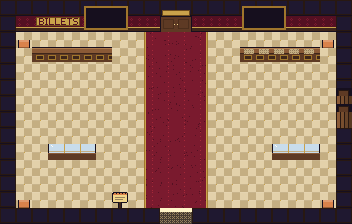
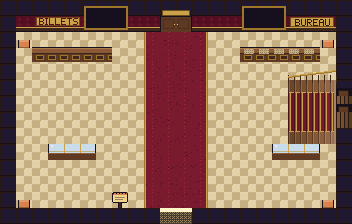
RIDEAU v0.17.3 : bandeau allégé, étapes numérotées, escalier du bureau
- bandeau « Prochaines étapes » réduit à un petit encadré (étape, une autre
  chose à faire, période et lieu) ; carte trésorerie/publics/rayonnement retirée
- étapes numérotées « Étape n/4 » et phrases plus courtes
- escalier d'honneur du hall au bureau (marches, tapis rouge, rampes, plaque)
- 182 tests verts

Claude-Session: https://claude.ai/code/session_014cbLPB3AwCSR3oojVBSsoS

Changed region(s): [[0.8125, 0.3125, 0.9688, 0.6562], [0.8125, 0.0625, 0.9688, 0.125]]

diff --git a/RIDEAU/tools/art/world.py b/RIDEAU/tools/art/world.py
@@ -405,6 +405,35 @@ def double_door(c, x0, y0, wood=P["wood2"], h=16):
 
 # --- Cartes intérieures ----------------------------------------------------------
 
+def draw_grand_stairs(base, top, x0, y0, w, h):
+    """Escalier d'honneur qui monte vers la droite (bureau de la direction) : marches de
+    chêne de plus en plus claires, tapis rouge et tringles dorées, rampes en laiton."""
+    steps = w // 6
+    for i in range(steps):
+        sx = x0 + i * 6
+        wood = shade(P["wood3"], 0.78 + i * 0.05)
+        base.rect(sx, y0, 6, h, wood)
+        base.vline(sx, y0, y0 + h - 1, shade(wood, 0.7))          # contremarche
+        base.vline(sx + 1, y0, y0 + h - 1, shade(wood, 1.15))     # nez de marche
+        base.rect(sx, y0 + 12, 6, h - 24, shade(P["velvet2"], 0.85 + i * 0.03))  # tapis rouge
+        base.hline(sx, sx + 5, y0 + 12, P["gold2"])
+        base.hline(sx, sx + 5, y0 + h - 13, P["gold2"])
+        base.vline(sx, y0 + 12, y0 + h - 13, shade(P["velvet2"], 0.6))       # ombre de la contremarche
+        base.vline(sx + 1, y0 + 13, y0 + h - 14, shade(P["velvet3"], 1.1))   # nez de marche sous le tapis
+        base.vline(sx + 2, y0 + 13, y0 + h - 14, P["gold2"])                 # tringle dorée
+    base.rect(x0 + w - 2, y0, 2, h, shade(P["wood3"], 1.25))       # palier
+    # Rampes : barreaux et main courante dorée (celle du bas passe devant les personnages)
+    for rail_y, canvas in ((y0 + 2, base), (y0 + h - 3, top)):
+        for i in range(steps + 1):
+            px = x0 + i * 6
+            canvas.vline(px, rail_y - 7, rail_y, P["wood1"])
+        canvas.line(x0, rail_y - 6, x0 + w - 1, rail_y - 12, P["gold2"])
+        canvas.line(x0, rail_y - 5, x0 + w - 1, rail_y - 11, P["gold1"])
+    for py in (y0 + 2, y0 + h - 3):  # pilastre de départ avec sa boule dorée
+        top.rect(x0 - 3, py - 10, 4, 12, P["wood0"])
+        top.ellipse(x0 - 1, py - 11, 2, 2, P["gold3"])
+
+
 def interior(world, map_id):
     m = world["maps"][map_id]
     g = m["grid"]
@@ -496,6 +525,11 @@ def interior(world, map_id):
         for vx in (3, 17):
             draw_showcase(base, top, vx * T, 9 * T, 3)
         draw_sign(base, 7 * T, 12 * T)
+        # Escalier d'honneur vers le bureau de la direction, et sa plaque de laiton
+        draw_grand_stairs(base, top, 18 * T, 5 * T, 3 * T, 4 * T)
+        base.rect(18 * T + 2, T + 1, 44, 10, P["gold2"])
+        base.frame(18 * T + 2, T + 1, 44, 10, P["gold0"])
+        text(base, 18 * T + 24 - text_width("BUREAU") // 2, T + 3, "BUREAU", P["wood0"])
         # Cadres d'affiches au mur (remplis dans le jeu)
         for fx in (5 * T + 6, 15 * T + 4):
             base.rect(fx - 2, T - 10, 44, 24, P["gold1"])
@@ -565,6 +599,18 @@ def interior(world, map_id):
         for _ in range(120):
             base.set(T + r.randrange(14 * T), 3 * T + r.randrange(6 * T), P["grey1"], 60)
     elif map_id == "bureau":
+        # Arrivée de l'escalier : les dernières marches, tapis rouge et rampe dorée
+        sx, sy = 5 * T, 9 * T
+        for i in range(4):
+            col = shade(P["wood3"], 1.15 - i * 0.12)
+            base.rect(sx, sy + i * 4, 3 * T, 4, col)
+            base.hline(sx, sx + 3 * T - 1, sy + i * 4, shade(col, 1.15))
+            base.rect(sx + 12, sy + i * 4, 3 * T - 24, 4, shade(P["velvet2"], 1.0 - i * 0.08))
+            base.set(sx + 12, sy + i * 4, P["gold3"])
+            base.set(sx + 3 * T - 13, sy + i * 4, P["gold3"])
+        for rx in (sx + 2, sx + 3 * T - 4):
+            top.rect(rx, sy - 8, 2, 24, P["gold2"])
+            top.ellipse(rx + 1, sy - 9, 2, 2, P["gold3"])
         draw_desk(base, 5 * T, 4 * T, 3 * T, [("book", 14), ("lamp", 36), ("paper", 3), ("mug", 28)])
         draw_desk(base, 9 * T, 6 * T, 2 * T, [("computer", 4), ("paper", 20)])
         draw_bookshelf(base, 1 * T, 2 * T, 3 * T)

diff --git a/RIDEAU/QA_REPORT.md b/RIDEAU/QA_REPORT.md
@@ -1,6 +1,6 @@
-# Rapport d'assurance qualité — RIDEAU ! v0.17.2
+# Rapport d'assurance qualité — RIDEAU ! v0.17.3
 
-Date : 27 octobre 2026 (v0.17.2 : Paris redessiné ; v0.17.1 : son de porte, extérieur sans ruissellement ; v0.17.0 : metteur en scène, voyage à Paris ; v0.16.2 : son de porte d'origine, plus de grésillement ; v0.16.0 : intérieurs, ruelles, façades ; v0.15.0 : son, ambiance, prologue ; v0.14.0 : collection de 50 objets ; v0.13.0 : album de collection ; v0.12.0 : grande ville ; v0.11.0 : scénarios, missions, dossiers, compétences ; v0.10.0 : monde explorable ; v0.9.0 le 25 octobre). Environnement : conteneur Linux, **Godot 4.7.2-stable compilé depuis les
+Date : 27 octobre 2026 (v0.17.3 : bandeau allégé, étapes numérotées, escalier ; v0.17.2 : Paris redessiné ; v0.17.1 : son de porte, extérieur sans ruissellement ; v0.17.0 : metteur en scène, voyage à Paris ; v0.16.2 : son de porte d'origine, plus de grésillement ; v0.16.0 : intérieurs, ruelles, façades ; v0.15.0 : son, ambiance, prologue ; v0.14.0 : collection de 50 objets ; v0.13.0 : album de collection ; v0.12.0 : grande ville ; v0.11.0 : scénarios, missions, dossiers, compétences ; v0.10.0 : monde explorable ; v0.9.0 le 25 octobre). Environnement : conteneur Linux, **Godot 4.7.2-stable compilé depuis les
 sources**, rendu réel OpenGL (Mesa llvmpipe) sous Xvfb, Chromium (Playwright) pour la version Web.
 **Tout ce qui est indiqué « réussi » a été réellement exécuté.**
 
@@ -68,6 +68,10 @@ Aucune stratégie triviale ne gagne. « La première saison » est volontairemen
 - Captures réelles de chaque écran (`docs/screenshots/`), relues une à une, dont le monde
   explorable : bureau, hall, place en automne et en hiver (fêtes, enseigne), coulisses, dialogue
   avec réponses, fenêtre d'étape, soirée dans la salle, menu.
+- v0.17.3 : captures relues (place, hall avec l'escalier, bureau). Défauts trouvés et corrigés :
+  marches illisibles sous le tapis (nez de marche et tringles renforcés), plaque « DIRECTION »
+  coupée (devenue « BUREAU »), objectif sur trois lignes (phrases raccourcies). Tests ajoutés :
+  l'objectif commence par « Étape 1/4 », l'escalier mène au bureau et se marche sur un tapis.
 - v0.17.2 : Paris redessiné ; plan complet et captures en jeu relus (arrivée à la gare, boulevard
   et théâtre, quais de Seine, place). Défauts trouvés et corrigés : rangée d'immeubles qui coupait
   l'accès aux quais (deux rues percées), deux personnages posés sur un candélabre et un platane,
@@ -122,8 +126,8 @@ Aucune stratégie triviale ne gagne. « La première saison » est volontairemen
 
 | Plateforme | Produit | Vérification réelle |
 |---|---|---|
-| Linux x86_64 | `RIDEAU.x86_64` (93 Mo) | **Autotest** (`-- --smoke-test`) : données, dialogue, **monde (34 cartes, création et première, décors de chaque intérieur, scène)**, collection (50 objets), saison complète avec missions et dossiers, sauvegarde → SUCCÈS (v0.17.2) |
-| Web (WebGL 2, sans threads) | `index.html` + `.wasm` + `.pck` | Chargé dans Chromium (v0.17.2) : menu, choix du scénario, monde ; (v0.11.0) transmission du rapport de saison à la page — **0 erreur console** ; publié en lien privé (moteur découpé en 3 morceaux de moins de 15 Mo, réassemblés au chargement) |
+| Linux x86_64 | `RIDEAU.x86_64` (93 Mo) | **Autotest** (`-- --smoke-test`) : données, dialogue, **monde (34 cartes, création et première, décors de chaque intérieur, scène)**, collection (50 objets), saison complète avec missions et dossiers, sauvegarde → SUCCÈS (v0.17.3) |
+| Web (WebGL 2, sans threads) | `index.html` + `.wasm` + `.pck` | Chargé dans Chromium (v0.17.3) : menu, choix du scénario, monde ; (v0.11.0) transmission du rapport de saison à la page — **0 erreur console** ; publié en lien privé (moteur découpé en 3 morceaux de moins de 15 Mo, réassemblés au chargement) |
 | Windows x86_64 | `RIDEAU.exe` (86 Mo) | Export sans erreur. **Non lancé** : pas de Windows dans l'environnement |
 | macOS | préréglage fourni | **Non produit** : nécessite un Mac (modèles et signature Apple) |
 

diff --git a/RIDEAU/README.md b/RIDEAU/README.md
@@ -10,7 +10,7 @@ des saisons. Le jeu fait découvrir, par l'expérience,
 les grandes logiques de l'administration culturelle (budget prévisionnel, billetterie, jauge,
 contrats de cession et de coréalisation, médiation, subventions, mécénat…).
 
-État : **version 0.17.2 jouable de bout en bout** (voir `QA_REPORT.md` et `ROADMAP.md`).
+État : **version 0.17.3 jouable de bout en bout** (voir `QA_REPORT.md` et `ROADMAP.md`).
 Depuis la version 0.17 : **une création avec le metteur en scène Victor Lazare** (un choix par mois,
 il change d'endroit à chaque fois), le bandeau **« Prochaines étapes »**, et en fin de saison le
 **voyage en train à Paris** : un quartier parisien à explorer et la première au Théâtre des Lumières.
@@ -45,7 +45,7 @@ En ligne de commande :
 ```
 
 Des versions prêtes à jouer pour **Linux, Windows et le Web** ont été produites (archives
-`RIDEAU-0.17.2-*.zip` transmises avec la livraison ; le dossier `exports/` n'est pas versionné).
+`RIDEAU-0.17.3-*.zip` transmises avec la livraison ; le dossier `exports/` n'est pas versionné).
 La version Web se lance en servant le dossier décompressé, par exemple :
 `python3 -m http.server` puis <http://localhost:8000> (l'ouvrir directement en `file://` ne marche pas).
 Vérifier une version exportée : `./RIDEAU.x86_64 --headless -- --smoke-test`.

diff --git a/RIDEAU/CHANGELOG.md b/RIDEAU/CHANGELOG.md
@@ -2,6 +2,23 @@
 
 Format inspiré de « Keep a Changelog ». Versions du jeu (`application/config/version`).
 
+## [0.17.3] — 2026-10-27 — Un écran plus léger, une ligne directrice, un escalier
+
+### Modifié
+- **Le haut de l'écran est allégé** : l'encadré « Prochaines étapes » devient un petit bandeau
+  sombre en haut à gauche — l'étape en cours, au plus une autre chose à faire en petit (le
+  metteur en scène ou une mission), puis la période et le lieu. Le reste est dans le journal (J).
+- **La carte en haut à gauche (trésorerie, publics, rayonnement) est retirée** : ses chiffres
+  restaient obscurs. Ils restent accessibles par les boutons Budget et Bilans.
+- **Ligne directrice** : chaque période se déroule en 4 étapes numérotées dans le bandeau
+  (« Étape 1/4 » choisir les spectacles, « 2/4 » choisir les actions avec l'équipe, « 3/4 » la
+  soirée, « 4/4 » le bilan), avec des phrases plus courtes.
+
+### Ajouté
+- **Un escalier d'honneur monte au bureau de la direction** depuis le hall : marches de chêne,
+  tapis rouge à tringles dorées, rampes en laiton, plaque « BUREAU » ; en haut, l'arrivée de
+  l'escalier devant la porte du bureau. On y marche sur le tapis.
+
 ## [0.17.2] — 2026-10-27 — Un vrai Paris
 
 ### Modifié
